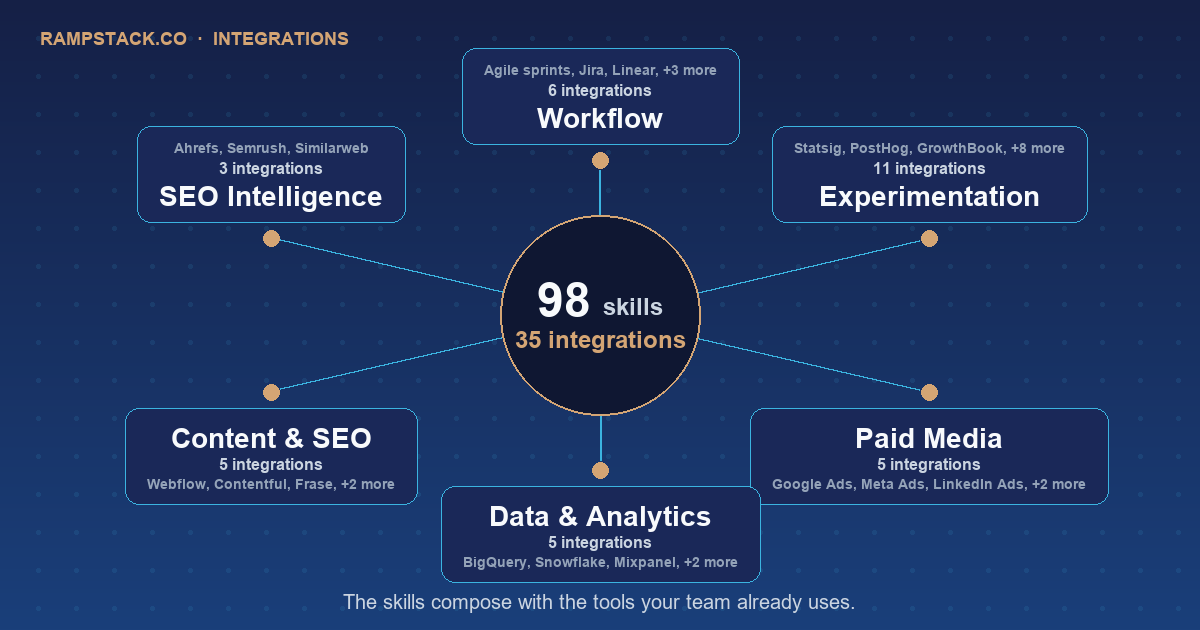
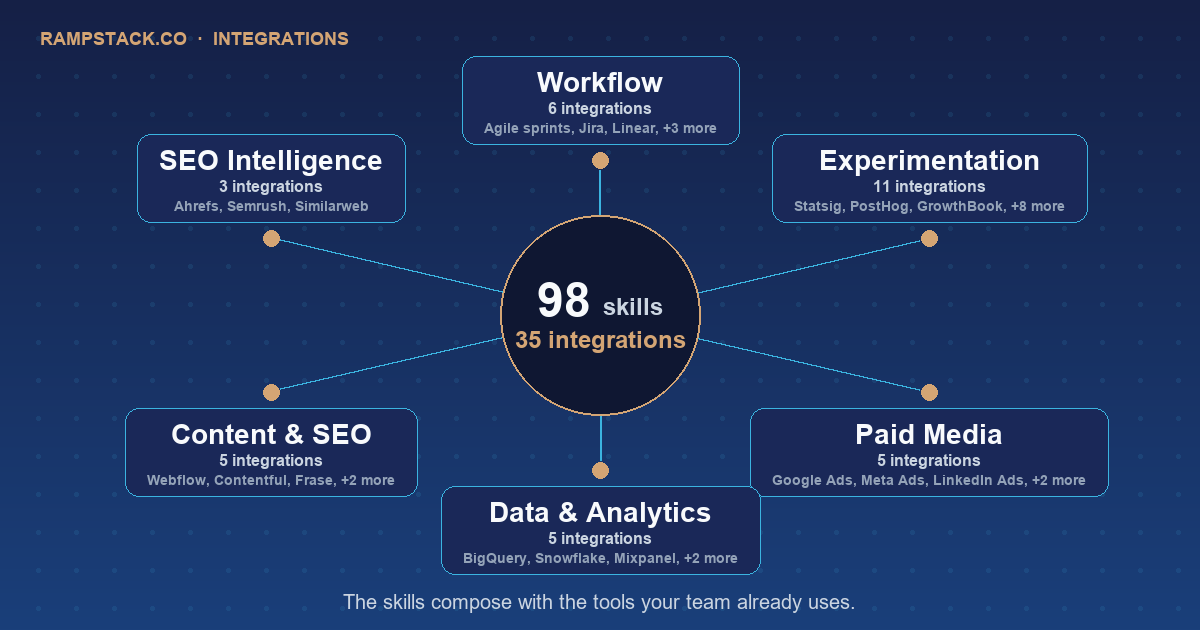
polish(arch-image): flip top-card row order, strengthen lines, trim chrome clearance + README credit (#45)
Architecture image fixes addressing two visual issues observed on
the live diagram at desktop width:

1. Top-half cards (Workflow, SEO Intelligence, Experimentation) were
   rendering with samples at top, count in middle, and label at the
   bottom (closest to the dot). The label-at-bottom logic mirrored
   the bottom-half cards' label-at-top behavior because both keep
   the label closest to the connection line, but visually it read
   as inverted: the eye wants the title first. Reversed text_above
   row order so all 6 cards now read title -> count -> samples
   top-to-bottom regardless of node position.

2. Visual tightness around the hub. Math said 71px gap between hub
   edge and card edges, but two factors made it read compressed:
   (a) connection line alpha 90 was too faint to bridge the gap;
   (b) Workflow card (top-center) bumped within 2px of the chrome
   eyebrow at the top by the math. Bumped line alpha 90 -> 140
   (~35% to ~55% opacity) so the spoke is clearly visible. Trimmed
   WIDE_SPEC card_padding_y from 14 to 10 (8px shorter cards) which
   gives the Workflow card 10px clearance from chrome eyebrow (was
   2px) and Data & Analytics card 16px from chrome footer (was 8px).

Plus: added Acknowledgments section to README crediting
@user for the community feedback that shaped PR #36
(CONTRIBUTING.md typo fix, cross-linking pass between SKILL.md and
reference files, and the new ARIA patterns reference for
[…]

diff --git a/scripts/generate_architecture_image.py b/scripts/generate_architecture_image.py
@@ -129,7 +129,7 @@ WIDE_SPEC = LayoutSpec(
     chrome_header_size=18,
     chrome_footer_size=20,
     card_padding_x=22,
-    card_padding_y=14,
+    card_padding_y=10,
     card_radius=14,
 )
 
@@ -347,9 +347,9 @@ def render_node(
     Card sits text_offset px outward from the node along the radial,
     so the gold dot at the original node position floats between the
     connection line endpoint and the card edge nearest the hub. Within
-    the card, rows stack so that the label is always closest to the
-    node (top of card when text below the node, bottom of card when
-    above), with counts in the middle and sample names farthest.
+    the card, rows always stack title -> count -> samples top-to-bottom
+    so the eye lands on the title first regardless of whether the node
+    sits above or below the hub.
     """
     cx, cy = spec.width // 2, spec.height // 2
     angle_rad = math.radians(angle_deg)
@@ -409,7 +409,7 @@ def render_node(
         line_end_x, line_end_y = float(cx), float(cy)
     draw.line(
         [(cx, cy), (line_end_x, line_end_y)],
-        fill=(CYAN[0], CYAN[1], CYAN[2], 90),
+        fill=(CYAN[0], CYAN[1], CYAN[2], 140),
         width=2,
     )
 
@@ -430,24 +430,18 @@ def render_node(
         fill=ACCENT_GOLD,
     )
 
-    # Stack rows top-to-bottom inside the card. When text sits above
-    # the node the label is closest to the node, which means it ends
-    # up at the bottom of the card; reverse the stack accordingly.
+    # Stack rows top-to-bottom inside every card: title, count, samples.
+    # Same order regardless of whether the node sits above or below the
+    # hub; the card edge nearest the hub varies (bottom for top-half
+    # nodes, top for bottom-half nodes), but the in-card reading order
+    # stays consistent so the eye lands on the title first.
     rows: list[tuple[str, ImageFont.ImageFont, int, tuple, int]] = []
-    if text_above:
-        if spec.show_samples and sample_font is not None:
-            rows.append(
-                (sample_text, sample_font, sample_w, SLATE_MUTED, spec.node_sample_size)
-            )
-        rows.append((count, count_font, count_w, SLATE_LIGHT, spec.node_count_size))
-        rows.append((label, label_font, label_w, INK, spec.node_label_size))
-    else:
-        rows.append((label, label_font, label_w, INK, spec.node_label_size))
-        rows.append((count, count_font, count_w, SLATE_LIGHT, spec.node_count_size))
-        if spec.show_samples and sample_font is not None:
-            rows.append(
-                (sample_text, sample_font, sample_w, SLATE_MUTED, spec.node_sample_size)
-            )
+    rows.append((label, label_font, label_w, INK, spec.node_label_size))
+    rows.append((count, count_font, count_w, SLATE_LIGHT, spec.node_count_size))
+    if spec.show_samples and sample_font is not None:
+        rows.append(
+            (sample_text, sample_font, sample_w, SLATE_MUTED, spec.node_sample_size)
+        )
 
     text_x = (card_left + card_right) // 2
     y_cursor = card_top + spec.card_padding_y

diff --git a/README.md b/README.md
@@ -44,6 +44,7 @@
 - [Authoring conventions](#authoring-conventions)
 - [Repository structure](#repository-structure)
 - [Contributing](#contributing)
+- [Acknowledgments](#acknowledgments)
 - [Resources](#resources)
 - [License](#license)
 
@@ -667,6 +668,12 @@ See [CONTRIBUTING.md](CONTRIBUTING.md) for the full process.
 
 <!-- TODO: refresh hardcoded count below when catalog crosses next round number -->
 The fastest path: use the [`skill-creation-walkthrough`](skills/skill-creation-walkthrough/SKILL.md) skill itself. It teaches the same authoring discipline used across all 98 skills, with worked examples and a blank template.
+
+---
+
+## Acknowledgments
+
+Thanks to [@IgnacioChiaravalle](https://github.com/IgnacioChiaravalle) for the community feedback that shaped [PR #36](https://github.com/rampstackco/claude-skills/pull/36): a CONTRIBUTING.md typo fix, a cross-linking pass between SKILL.md files and their reference files, and the new [ARIA patterns reference](skills/accessibility-audit/references/aria-patterns.md) for the accessibility-audit skill.
 
 ---
 